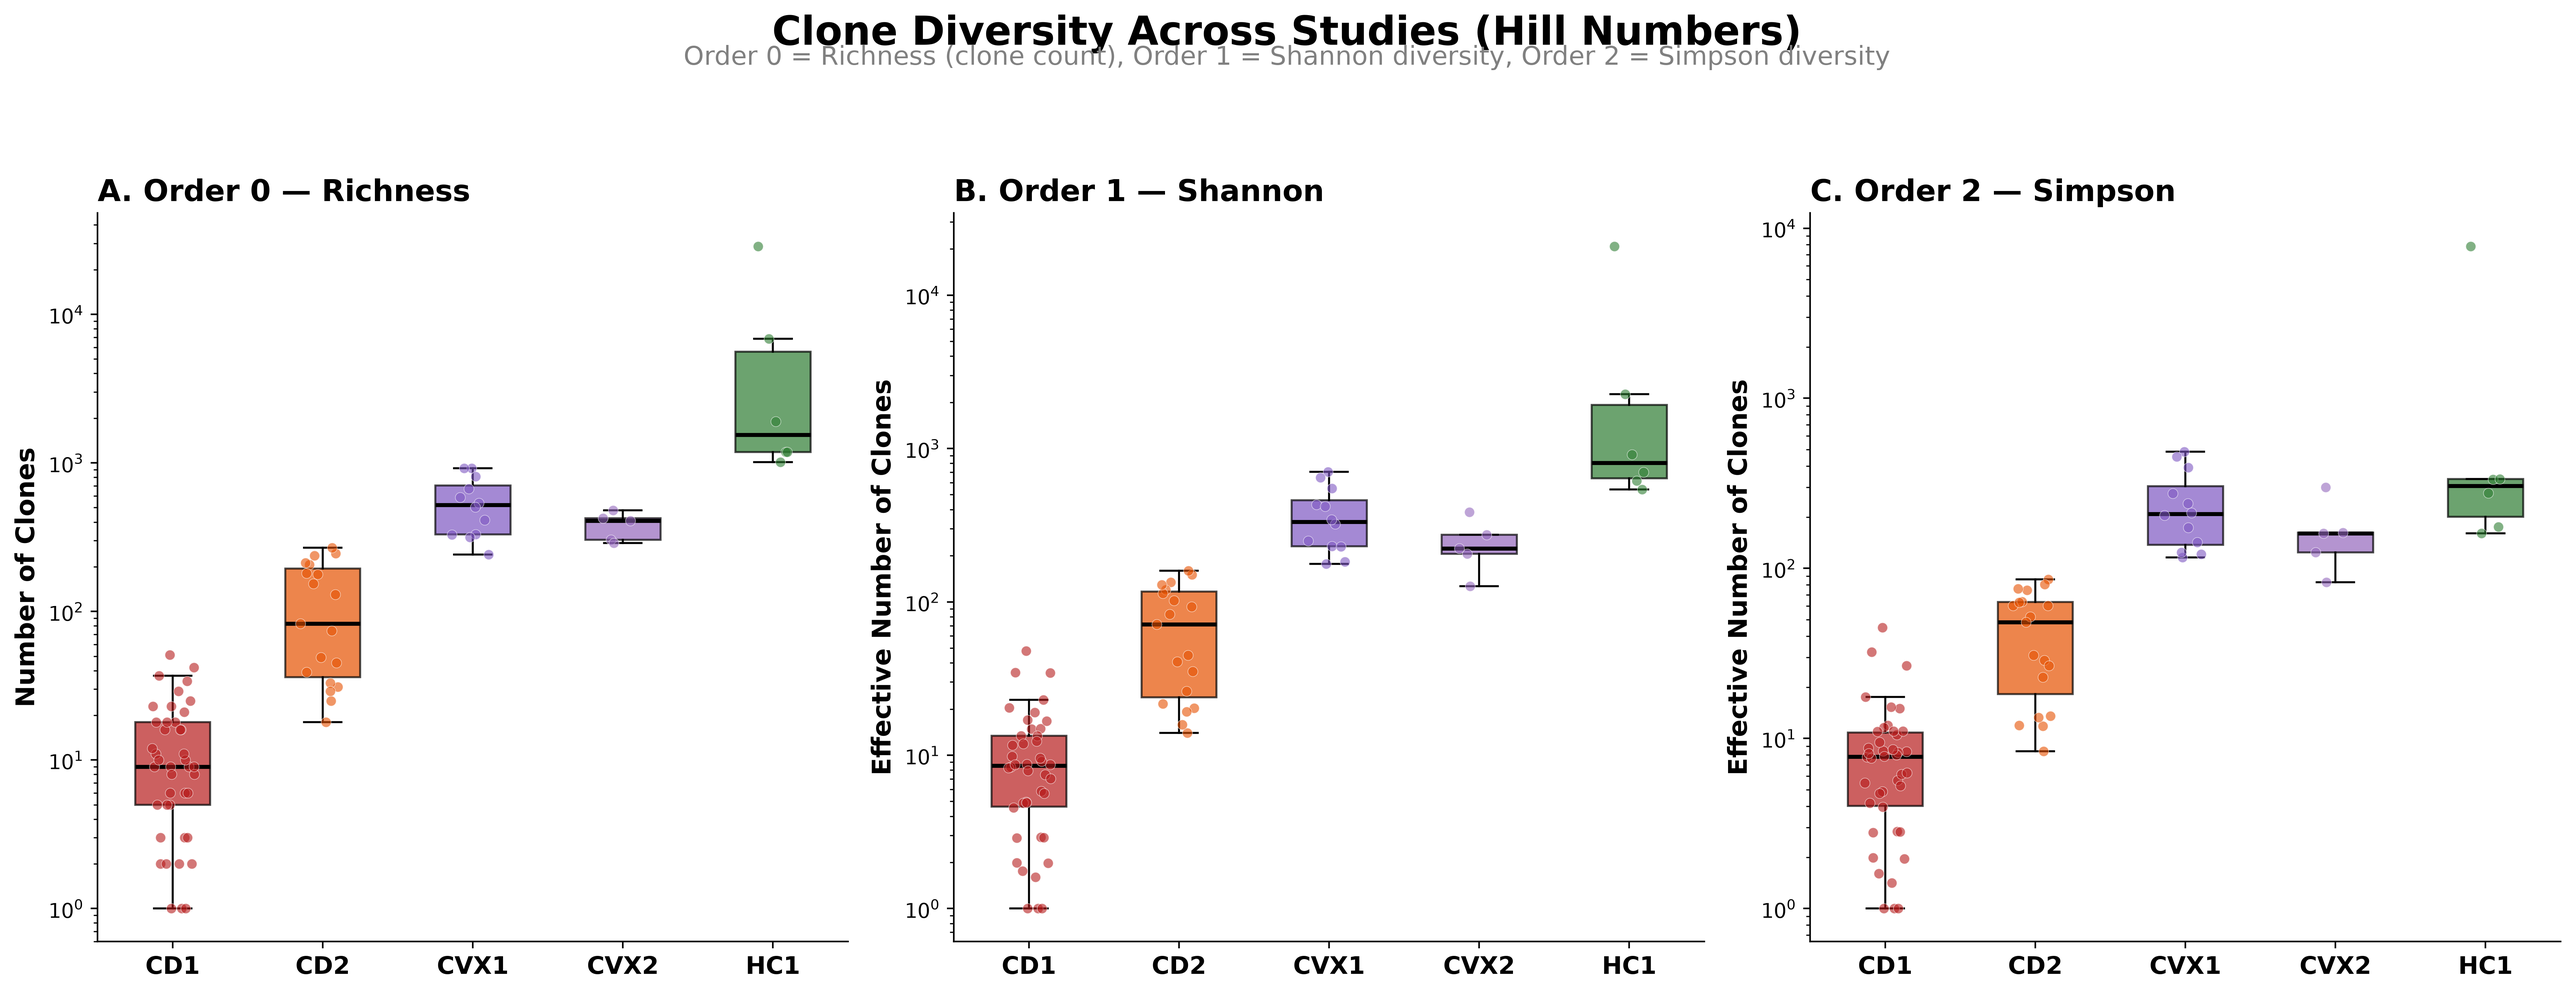
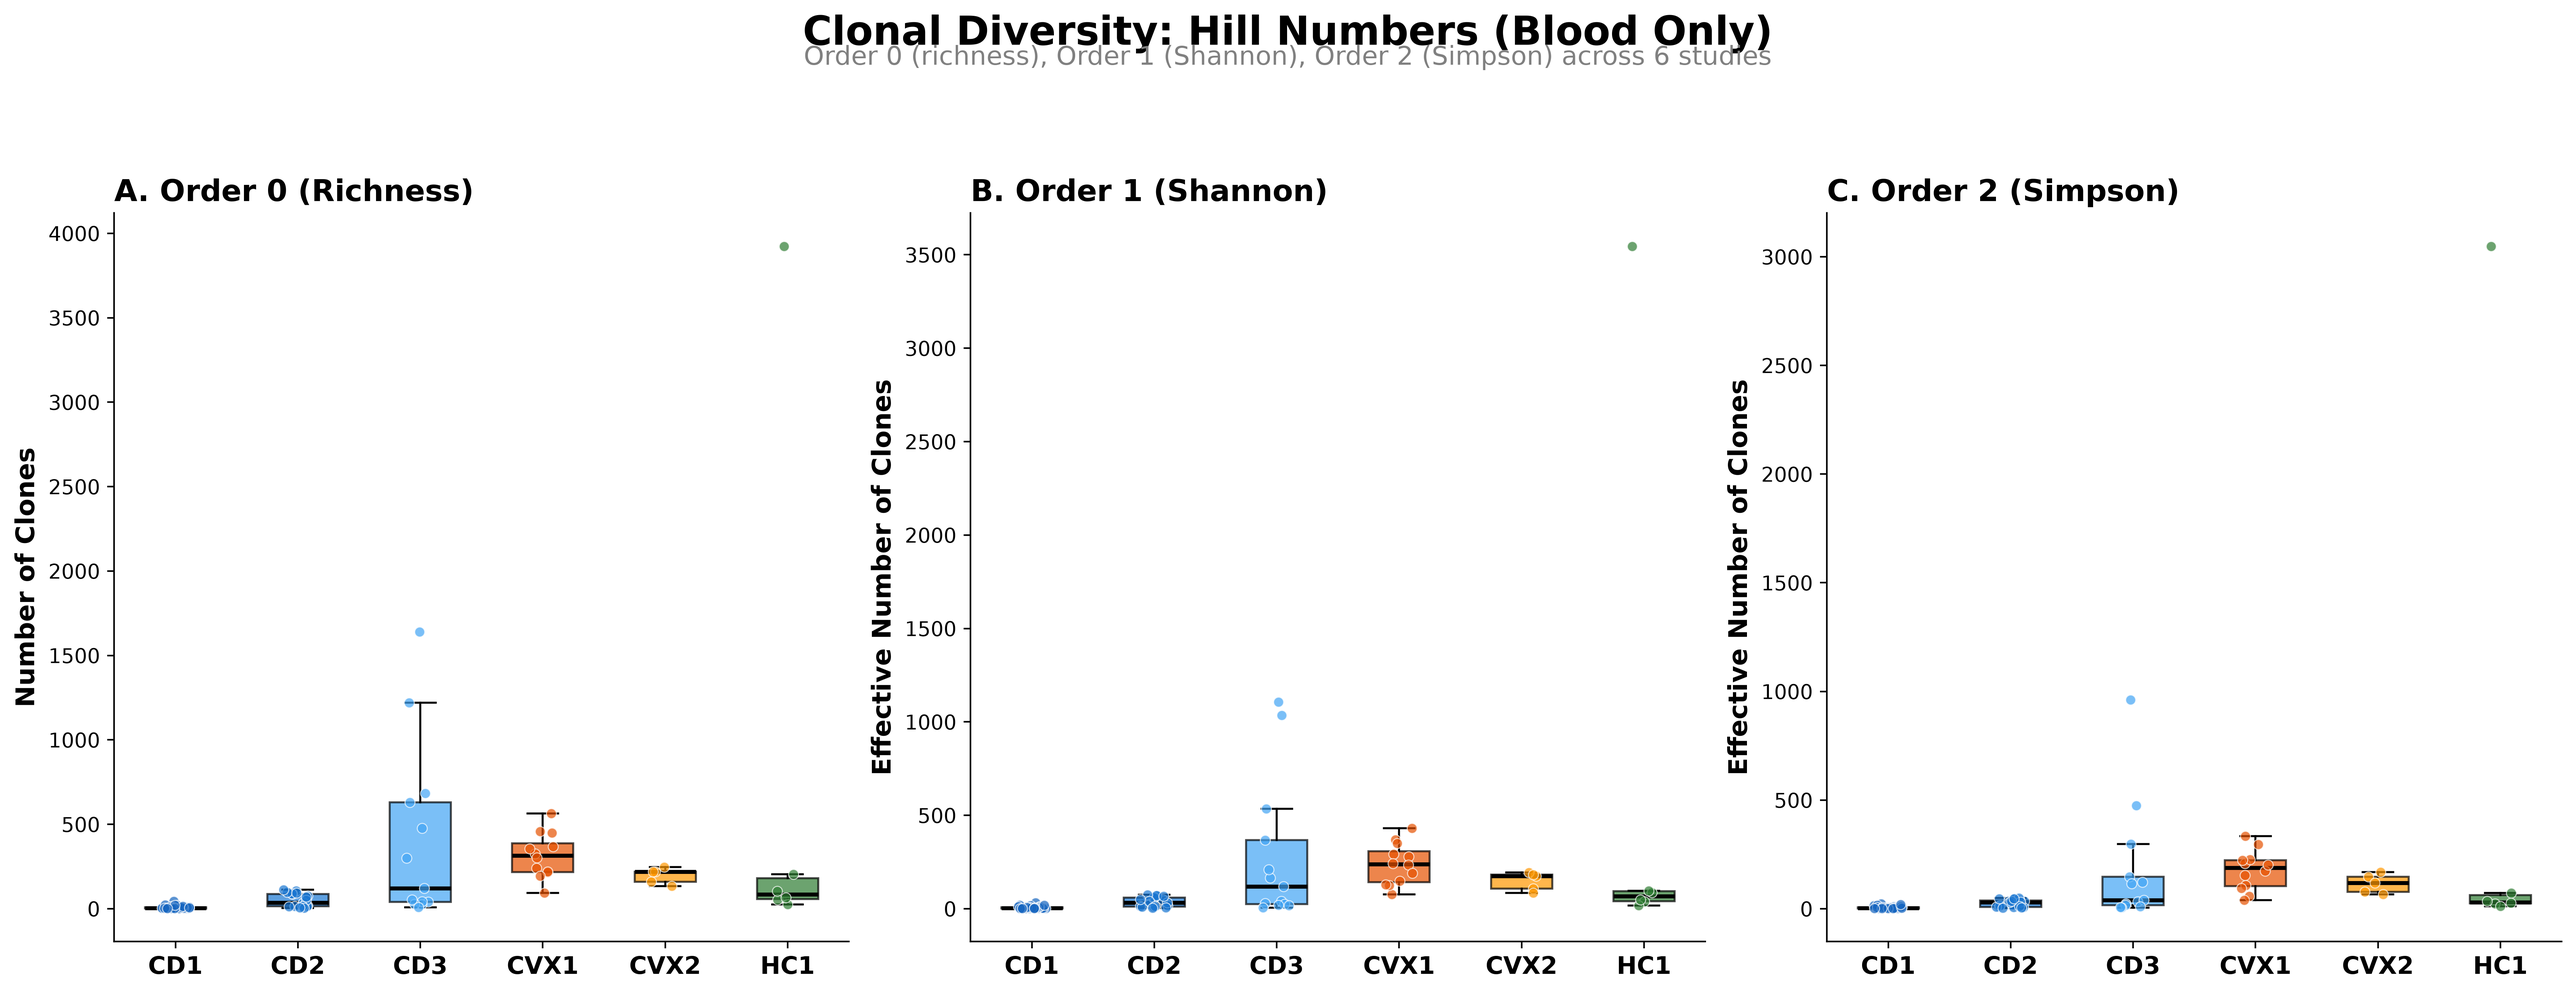
Add Hill numbers figures for blood-only samples across 6 studies
Order 0 (richness), Order 1 (Shannon), Order 2 (Simpson) computed
per subject from clone_size_ALL_tissue.json, filtered to blood tissues
(blood, Peripheral blood, PBL, PBMC). GT1 excluded. Excludes D159,
D154, Hu-1, Fb, Water.

diff --git a/immunedb_STATS_API/clonal_analysis/hill_numbers_fig.py b/immunedb_STATS_API/clonal_analysis/hill_numbers_fig.py
@@ -1,0 +1,164 @@
+import json
+import matplotlib
+matplotlib.use("Agg")
+import matplotlib.pyplot as plt
+import numpy as np
+from collections import defaultdict
+
+with open("clone_size/data/clone_size_ALL_tissue.json") as f:
+    data = json.load(f)
+
+STUDY_MAP = [
+    ("Covid19_db3", "CD1"), ("covid_db2", "CD2"), ("covid19", "CD3"),
+    ("vaccine2", "CVX1"), ("covid_vaccine_new", "CVX2"),
+    ("lp16", "HC1"),
+]
+
+EXCLUDE = {"lp16_Igblast-D159", "lp16_Igblast-D154", "lp16_Igblast-Hu-1",
+           "covid_vaccine_new-Fb", "covid_vaccine_new-Water"}
+
+BLOOD_TISSUES = {"blood", "Peripheral blood", "PBL", "PBMC"}
+
+def get_study(rid):
+    for prefix, short in STUDY_MAP:
+        if prefix in rid:
+            return short
+    return None
+
+# Collect clone sizes per subject (blood only)
+subj_clones = defaultdict(lambda: {"study": "", "sizes": []})
+for entry in data["Result"]:
+    rep = entry["repertoire"]
+    rid = rep["repertoire_id"]
+    study = get_study(rid)
+    if not study or rid in EXCLUDE:
+        continue
+    keys = rep.get("meta_key", [])
+    vals = rep.get("meta_value", [])
+    if isinstance(keys, list):
+        meta = dict(zip(keys, vals))
+    else:
+        meta = {keys: vals}
+    tissue = meta.get("tissue", "")
+    if tissue not in BLOOD_TISSUES:
+        continue
+    sv = entry["statistics"][0]["stats_value"]
+    if not sv:
+        continue
+    subj_clones[rid]["study"] = study
+    subj_clones[rid]["sizes"].append(sv[0]["count"])
+
+# Compute Hill numbers per subject
+def hill_numbers(sizes):
+    sizes = np.array(sizes, dtype=float)
+    total = sizes.sum()
+    if total == 0:
+        return 0, 0, 0
+    p = sizes / total
+    q0 = len(sizes)
+    q1 = np.exp(-np.sum(p[p > 0] * np.log(p[p > 0])))
+    q2 = 1.0 / np.sum(p ** 2) if np.sum(p ** 2) > 0 else 0
+    return q0, q1, q2
+
+studies_order = ["CD1", "CD2", "CD3", "CVX1", "CVX2", "HC1"]
+study_colors = {
+    "CD1": "#1565c0", "CD2": "#1976d2", "CD3": "#42a5f5",
+    "CVX1": "#e65100", "CVX2": "#ff9800",
+    "HC1": "#2e7d32",
+}
+
+study_hills = defaultdict(lambda: {"q0": [], "q1": [], "q2": []})
+for rid, info in subj_clones.items():
+    if not info["sizes"]:
+        continue
+    q0, q1, q2 = hill_numbers(info["sizes"])
+    s = info["study"]
+    study_hills[s]["q0"].append(q0)
+    study_hills[s]["q1"].append(q1)
+    study_hills[s]["q2"].append(q2)
+
+print("Subjects per study (blood only):")
+for s in studies_order:
+    print(f"  {s}: {len(study_hills[s]['q0'])} subjects")
+
+# ============================================================
+# FIGURE 17: Hill numbers boxplots — Order 0, 1, 2
+# ============================================================
+fig, axes = plt.subplots(1, 3, figsize=(18, 7))
+fig.suptitle("Clonal Diversity: Hill Numbers (Blood Only)", fontsize=20, fontweight="bold", y=0.98)
+fig.text(0.5, 0.93, "Order 0 (richness), Order 1 (Shannon), Order 2 (Simpson) across 6 studies",
+         ha="center", fontsize=13, color="gray")
+
+titles = ["A. Order 0 (Richness)", "B. Order 1 (Shannon)", "C. Order 2 (Simpson)"]
+keys = ["q0", "q1", "q2"]
+rng = np.random.default_rng(42)
+
+for panel_idx, (key, title) in enumerate(zip(keys, titles)):
+    ax = axes[panel_idx]
+    bp_data = [study_hills[s][key] if study_hills[s][key] else [0] for s in studies_order]
+    colors = [study_colors[s] for s in studies_order]
+
+    bp = ax.boxplot(bp_data, positions=range(len(studies_order)), widths=0.5, patch_artist=True,
+                    showfliers=False, medianprops=dict(color="black", linewidth=2))
+    for i, patch in enumerate(bp["boxes"]):
+        patch.set_facecolor(colors[i])
+        patch.set_alpha(0.7)
+
+    for i, s in enumerate(studies_order):
+        vals = study_hills[s][key]
+        if vals:
+            jitter = rng.uniform(-0.12, 0.12, len(vals))
+            ax.scatter([i + j for j in jitter], vals, color=colors[i], s=25, alpha=0.7,
+                       zorder=3, edgecolors="white", linewidth=0.5)
+
+    ax.set_xticks(range(len(studies_order)))
+    ax.set_xticklabels(studies_order, fontsize=12, fontweight="bold")
+    ax.set_title(title, fontsize=15, fontweight="bold", loc="left")
+    ax.spines["top"].set_visible(False)
+    ax.spines["right"].set_visible(False)
+
+    if panel_idx == 0:
+        ax.set_ylabel("Number of Clones", fontsize=13, fontweight="bold")
+    else:
+        ax.set_ylabel("Effective Number of Clones", fontsize=13, fontweight="bold")
+
+plt.tight_layout(rect=[0, 0, 1, 0.90])
+plt.savefig("plots/17_diversity_hill_numbers.png", dpi=400, bbox_inches="tight", facecolor="white")
+plt.close()
+print("Saved: 17_diversity_hill_numbers.png")
+
+# ============================================================
+# FIGURE 18: Diversity profiles — q0 → q1 → q2
+# ============================================================
+fig, ax = plt.subplots(figsize=(10, 7))
+ax.set_title("Diversity Profiles (Blood Only)", fontsize=18, fontweight="bold")
+ax.text(0.5, 1.03, "Each thin line = one subject; thick line = study median",
+        transform=ax.transAxes, ha="center", fontsize=12, color="gray")
+
+x_pos = [0, 1, 2]
+for s in studies_order:
+    q0s = study_hills[s]["q0"]
+    q1s = study_hills[s]["q1"]
+    q2s = study_hills[s]["q2"]
+    color = study_colors[s]
+
+    for i in range(len(q0s)):
+        ax.plot(x_pos, [q0s[i], q1s[i], q2s[i]], color=color, alpha=0.15, linewidth=0.8)
+
+    if q0s:
+        medians = [np.median(q0s), np.median(q1s), np.median(q2s)]
+        ax.plot(x_pos, medians, color=color, linewidth=3, marker="o", markersize=8,
+                label=f"{s} (n={len(q0s)})", zorder=5)
+
+ax.set_xticks(x_pos)
+ax.set_xticklabels(["q=0\n(Richness)", "q=1\n(Shannon)", "q=2\n(Simpson)"], fontsize=13)
+ax.set_ylabel("Effective Number of Clones", fontsize=14, fontweight="bold")
+ax.set_yscale("log")
+ax.legend(fontsize=11, title="Study", title_fontsize=12, loc="upper right")
+ax.spines["top"].set_visible(False)
+ax.spines["right"].set_visible(False)
+
+plt.tight_layout()
+plt.savefig("plots/18_diversity_profiles.png", dpi=400, bbox_inches="tight", facecolor="white")
+plt.close()
+print("Saved: 18_diversity_profiles.png")
